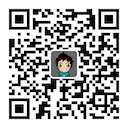
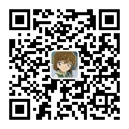
Clean assets

diff --git a/templ/index.html b/templ/index.html
@@ -52,7 +52,7 @@
           <span class="visuallyhidden">add</span>
         </button>
         <div class="mdl-card__media mdl-color--white mdl-color-text--grey-600">
-          <img src="/assets/images/qrcode.jpg" />
+          <img src="/assets/images/qrcode.jpg?v={{$.Meta.V}}" />
           {{$.Meta.Bio}}
         </div>
         <div class="mdl-card__supporting-text meta meta--fill mdl-color-text--grey-600">
@@ -137,7 +137,16 @@
   document.getElementById('share').addEventListener('click', function () {
     toast.MaterialSnackbar.showSnackbar({message: 'not yet impl :)'});
   });
-  openLink(document.getElementById('about'), '{{$.Meta.Link}}');
+
+  var _link = {{$.Meta.Link}};
+  if (_link.startsWith('https://') || _link.startsWith('http://')) {
+    // nothing...
+  } else if (_link.startsWith('/')) {
+    _link = escapeCDN(_link);
+  } else {
+    _link = qualifyURL(_link);
+  }
+  openLink(document.getElementById('about'), _link);
   openLink(document.getElementById('code'), '//github.com/longkai/xiaolongtongxue.com');
 
   // hide it first
@@ -145,11 +154,6 @@
   progress.style.display = 'none';
 
   more.addEventListener('click', function () {
-    if (!hasMore) {
-      toast.MaterialSnackbar.showSnackbar({message: '没有更多啦'});
-      return;
-    }
-
     more.style.display = 'none';
     progress.style.display = 'block';
 
@@ -159,6 +163,9 @@
         function (data) {
           console.log(data);
           hasMore = data.length != 0;
+          if (data.length == 0) {
+            toast.MaterialSnackbar.showSnackbar({message: '没有更多啦'});
+          }
 
           // do append
           appendEssays(data);
@@ -189,9 +196,8 @@ function appendEssays(data) {
 
     var cardMedia = document.createElement('div');
     cardMedia.className = 'mdl-card__media mdl-color-text--grey-50';
-    // fallback to west-lake? TODO: better handling...
     if (!a.background) {
-      a.background = '/assets/images/west-lake.jpg'
+      a.background = '/assets/images/default.jpg?v=${$.Meta.V}'
     }
     if (bgImg(a.background)) {
       cardMedia.style.background = 'url("' + a.background + '")';
